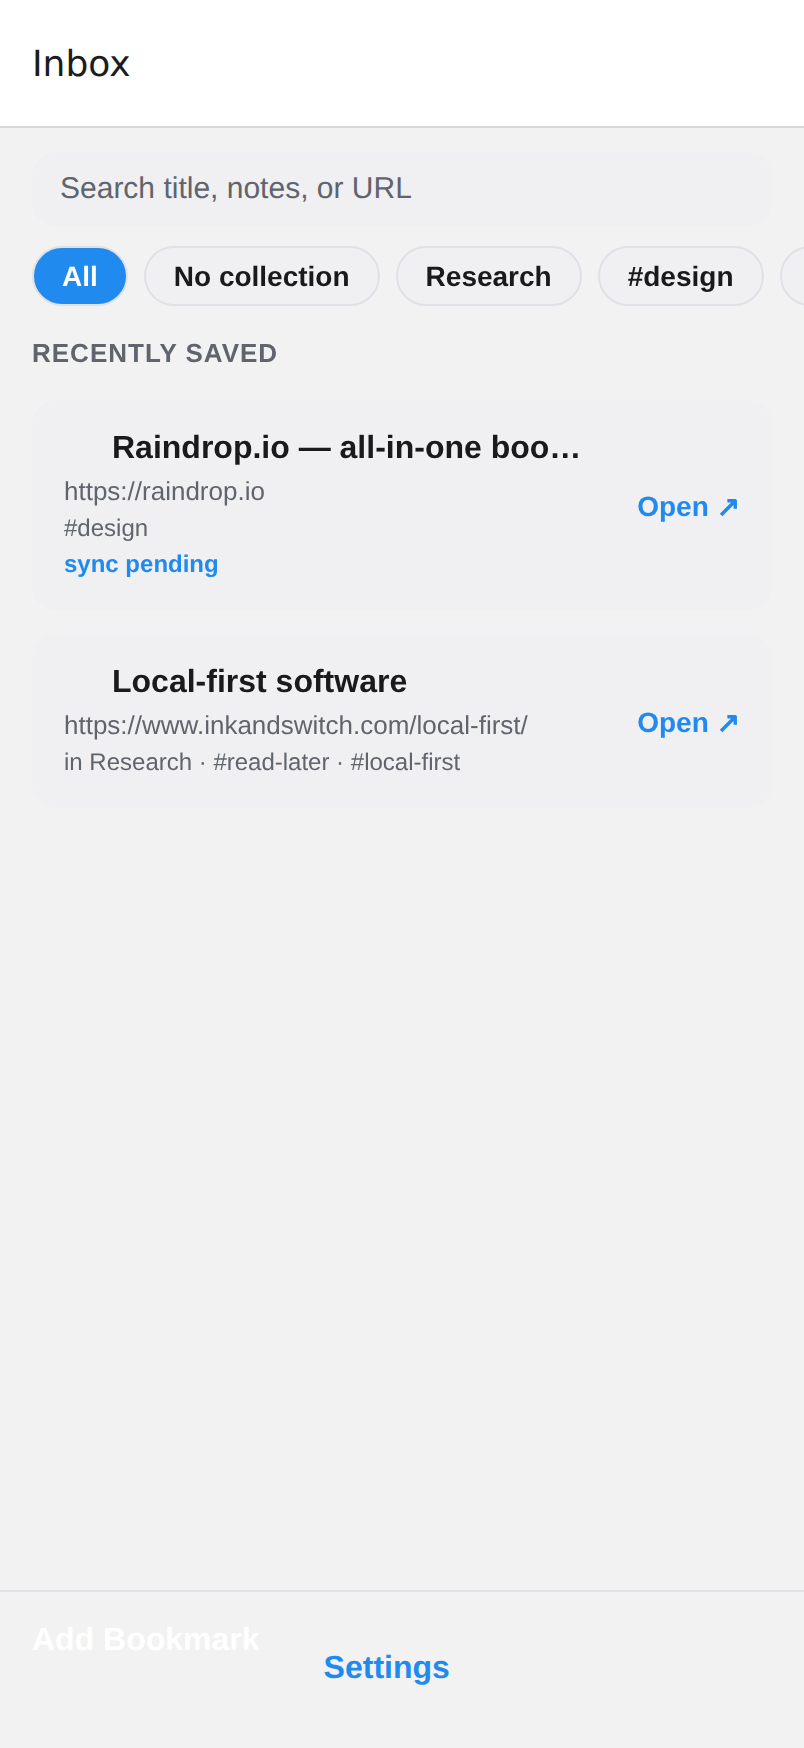
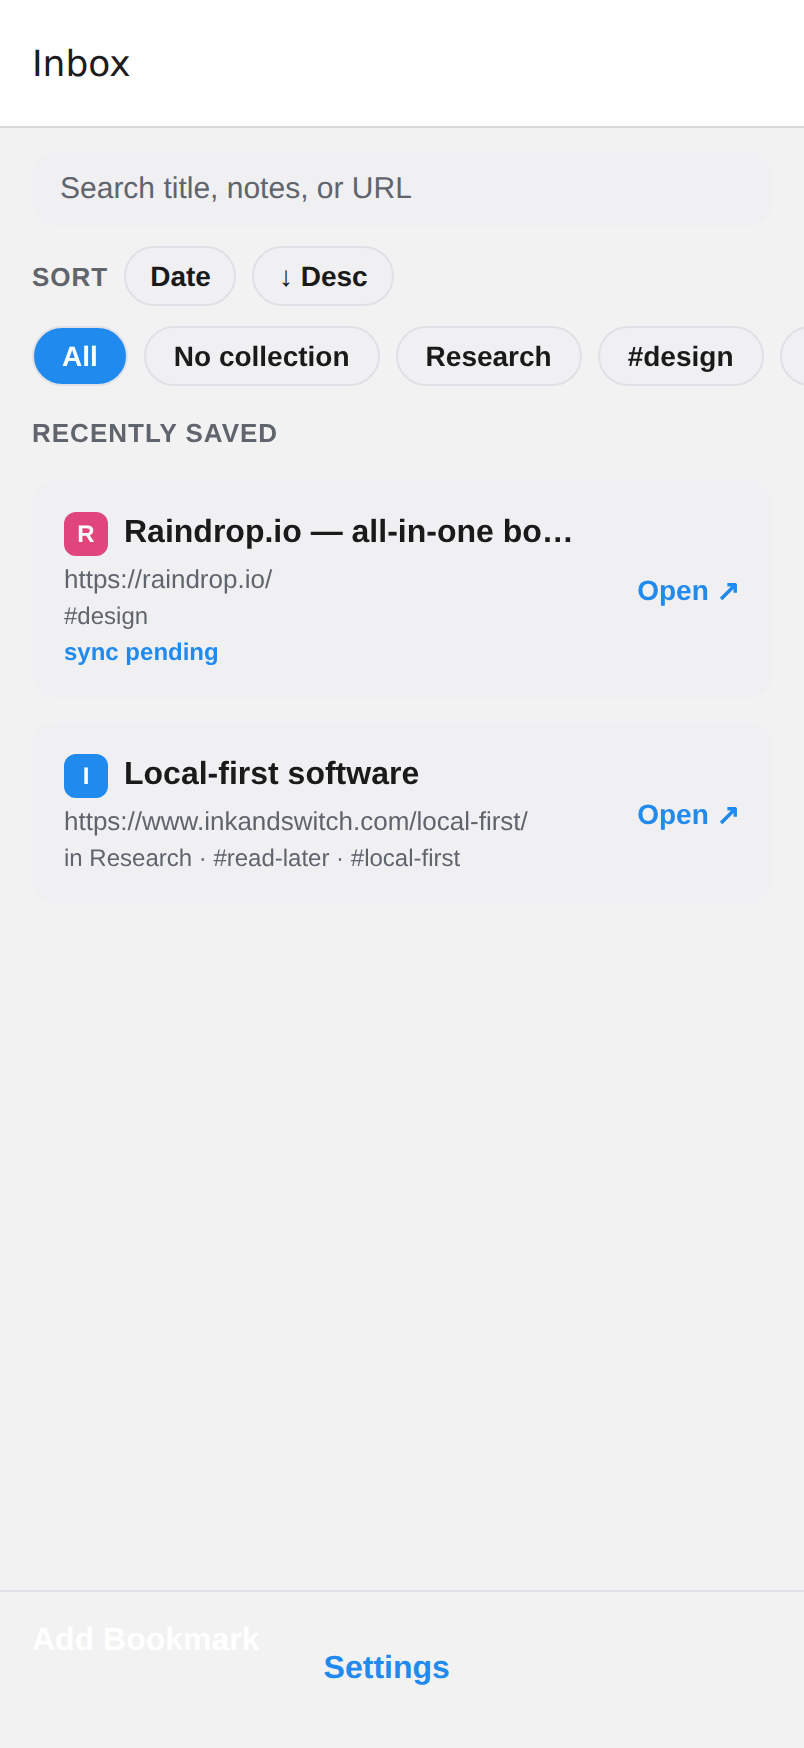
Refresh stale Inbox screenshot in the UX gallery
The Inbox gained a sort control (#31) and a guaranteed per-item icon (#32)
after the gallery was captured, so its screenshot was out of date. Re-capture
it (sort row + favicon/monogram icons, with facets and badges intact) and
update the caption. The other six screens are unchanged.

diff --git a/docs/design/ux-spec.md b/docs/design/ux-spec.md
@@ -20,7 +20,7 @@ states. Each screen links to the section that specifies its behavior; see
 
 <table>
 <tr>
-<td align="center" width="33%"><img src="assets/screens/inbox.png" width="240" alt="Inbox"><br><b>Inbox</b> — search, facet chips, cards with sync/tag metadata (<a href="#2-inbox">§2</a>)</td>
+<td align="center" width="33%"><img src="assets/screens/inbox.png" width="240" alt="Inbox"><br><b>Inbox</b> — per-item icon (favicon or domain monogram), sort control, search, facet chips, sync/tag metadata (<a href="#2-inbox">§2</a>)</td>
 <td align="center" width="33%"><img src="assets/screens/add.png" width="240" alt="Add Bookmark"><br><b>Add Bookmark</b> — URL + optional note, instant local save (<a href="#11-manual-add-add-bookmark-modal">§1.1</a>)</td>
 <td align="center" width="33%"><img src="assets/screens/bookmark-detail.png" width="240" alt="Bookmark Detail"><br><b>Bookmark Detail</b> — open, edit title/notes, metadata, sync state (<a href="#3-bookmark-detail">§3</a>, <a href="#12-search-and-editing">§12</a>)</td>
 </tr>
